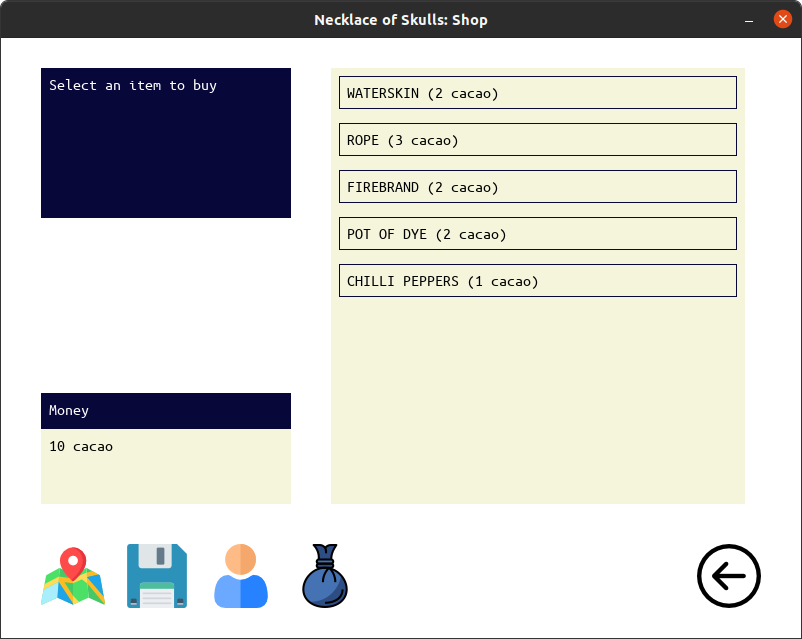
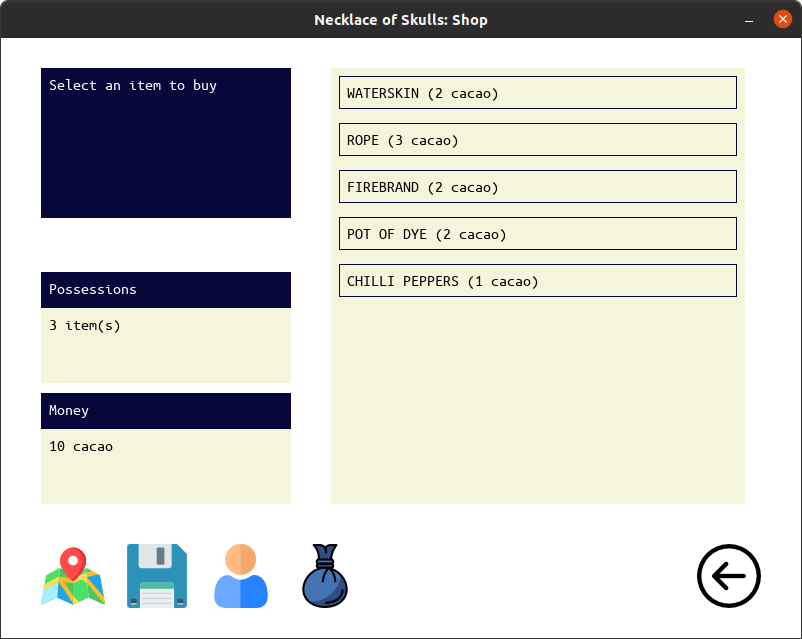
update screenshots

Changed region(s): [[0.0312, 0.4163, 0.3741, 0.6244]]

diff --git a/src/skulls.cpp b/src/skulls.cpp
@@ -820,6 +820,9 @@ bool inventoryScreen(SDL_Window *window, SDL_Renderer *renderer, Character::Base
         auto scrollDown = false;
         auto hold = false;
 
+        auto infoh = 36;
+        auto boxh = 75;
+
         while (!done)
         {
             SDL_SetWindowTitle(window, "Necklace of Skulls: Possessions");
@@ -830,7 +833,7 @@ bool inventoryScreen(SDL_Window *window, SDL_Renderer *renderer, Character::Base
             {
                 if ((SDL_GetTicks() - start_ticks) < duration)
                 {
-                    putText(renderer, message, font, 8, clrWH, intRD, TTF_STYLE_NORMAL, splashw, 150, startx, starty);
+                    putText(renderer, message, font, text_space, clrWH, intRD, TTF_STYLE_NORMAL, splashw, boxh * 2, startx, starty);
                 }
                 else
                 {
@@ -842,27 +845,30 @@ bool inventoryScreen(SDL_Window *window, SDL_Renderer *renderer, Character::Base
             {
                 if (mode == Control::Type::DROP)
                 {
-                    putText(renderer, "You are carrying too many items. Select an item to DROP.", font, 8, clrWH, intDB, TTF_STYLE_NORMAL, splashw, 75, startx, starty);
+                    putText(renderer, "You are carrying too many items. Select an item to DROP.", font, text_space, clrWH, intDB, TTF_STYLE_NORMAL, splashw, boxh, startx, starty);
                 }
                 else if (mode == Control::Type::USE)
                 {
-                    putText(renderer, "Select an item to USE", font, 8, clrWH, intDB, TTF_STYLE_NORMAL, splashw, 75, startx, starty);
+                    putText(renderer, "Select an item to USE", font, text_space, clrWH, intDB, TTF_STYLE_NORMAL, splashw, boxh, startx, starty);
                 }
                 else
                 {
-                    putText(renderer, "You are carrying these items", font, 8, clrWH, intDB, TTF_STYLE_NORMAL, splashw, 75, startx, starty);
+                    putText(renderer, "You are carrying these items", font, text_space, clrWH, intDB, TTF_STYLE_NORMAL, splashw, boxh, startx, starty);
                 }
             }
 
+            putText(renderer, "Money", font, text_space, clrWH, intDB, TTF_STYLE_NORMAL, splashw, infoh, startx, starty + text_bounds - (boxh + infoh));
+            putText(renderer, (std::to_string(player.Money) + std::string(" cacao")).c_str(), font, text_space, clrBK, intBE, TTF_STYLE_NORMAL, splashw, boxh, startx, starty + text_bounds - boxh);
+
             fillRect(renderer, textwidth + arrow_size + button_space, text_bounds, textx, texty, intBE);
 
-            renderButtons(renderer, controls, current, intGR, 8, 4);
+            renderButtons(renderer, controls, current, intGR, text_space, text_space / 2);
 
             for (auto i = 0; i < player.Items.size(); i++)
             {
                 if (i != current)
                 {
-                    drawRect(renderer, controls[i].W + 16, controls[i].H + 16, controls[i].X - 8, controls[i].Y - 8, intDB);
+                    drawRect(renderer, controls[i].W + 2 * text_space, controls[i].H + 2 * text_space, controls[i].X - text_space, controls[i].Y - text_space, intDB);
                 }
             }
 
@@ -990,6 +996,7 @@ bool shopScreen(SDL_Window *window, SDL_Renderer *renderer, Character::Base &pla
         auto messageh = 150;
         auto boxh = 75;
         auto infoh = 36;
+        auto box_space = 10;
 
         while (!done)
         {
@@ -1008,7 +1015,7 @@ bool shopScreen(SDL_Window *window, SDL_Renderer *renderer, Character::Base &pla
             {
                 if ((SDL_GetTicks() - start_ticks) < duration)
                 {
-                    putText(renderer, message.c_str(), font, 8, clrWH, intRD, TTF_STYLE_NORMAL, splashw, messageh, startx, starty);
+                    putText(renderer, message.c_str(), font, text_space, clrWH, intRD, TTF_STYLE_NORMAL, splashw, messageh, startx, starty);
                 }
                 else
                 {
@@ -1019,7 +1026,7 @@ bool shopScreen(SDL_Window *window, SDL_Renderer *renderer, Character::Base &pla
             {
                 if ((SDL_GetTicks() - start_ticks) < duration)
                 {
-                    putText(renderer, message.c_str(), font, 8, clrWH, intDB, TTF_STYLE_NORMAL, splashw, messageh, startx, starty);
+                    putText(renderer, message.c_str(), font, text_space, clrWH, intDB, TTF_STYLE_NORMAL, splashw, messageh, startx, starty);
                 }
                 else
                 {
@@ -1032,8 +1039,11 @@ bool shopScreen(SDL_Window *window, SDL_Renderer *renderer, Character::Base &pla
                 putText(renderer, "Select an item to buy", font, text_space, clrWH, intDB, TTF_STYLE_NORMAL, splashw, messageh, startx, starty);
             }
 
-            putText(renderer, "Money", font, 8, clrWH, intDB, TTF_STYLE_NORMAL, splashw, infoh, startx, starty + text_bounds - (boxh + infoh));
+            putText(renderer, "Money", font, text_space, clrWH, intDB, TTF_STYLE_NORMAL, splashw, infoh, startx, starty + text_bounds - (boxh + infoh));
             putText(renderer, (std::to_string(player.Money) + std::string(" cacao")).c_str(), font, text_space, clrBK, intBE, TTF_STYLE_NORMAL, splashw, boxh, startx, starty + text_bounds - boxh);
+
+            putText(renderer, "Possessions", font, text_space, clrWH, intDB, TTF_STYLE_NORMAL, splashw, infoh, startx, starty + text_bounds - (2 * (boxh + infoh) + box_space));
+            putText(renderer, (std::to_string(player.Items.size()) + std::string(" item(s)")).c_str(), font, text_space, clrBK, intBE, TTF_STYLE_NORMAL, splashw, boxh, startx, starty + text_bounds - (2 * boxh + infoh + box_space));
 
             fillRect(renderer, textwidth + arrow_size + button_space, text_bounds, textx, texty, intBE);
 
@@ -1219,7 +1229,7 @@ Story::Base *processChoices(SDL_Window *window, SDL_Renderer *renderer, Characte
             {
                 if ((SDL_GetTicks() - start_ticks) < duration)
                 {
-                    putText(renderer, message, font, 8, clrWH, intRD, TTF_STYLE_NORMAL, splashw, messageh, startx, starty);
+                    putText(renderer, message, font, text_space, clrWH, intRD, TTF_STYLE_NORMAL, splashw, messageh, startx, starty);
                 }
                 else
                 {
